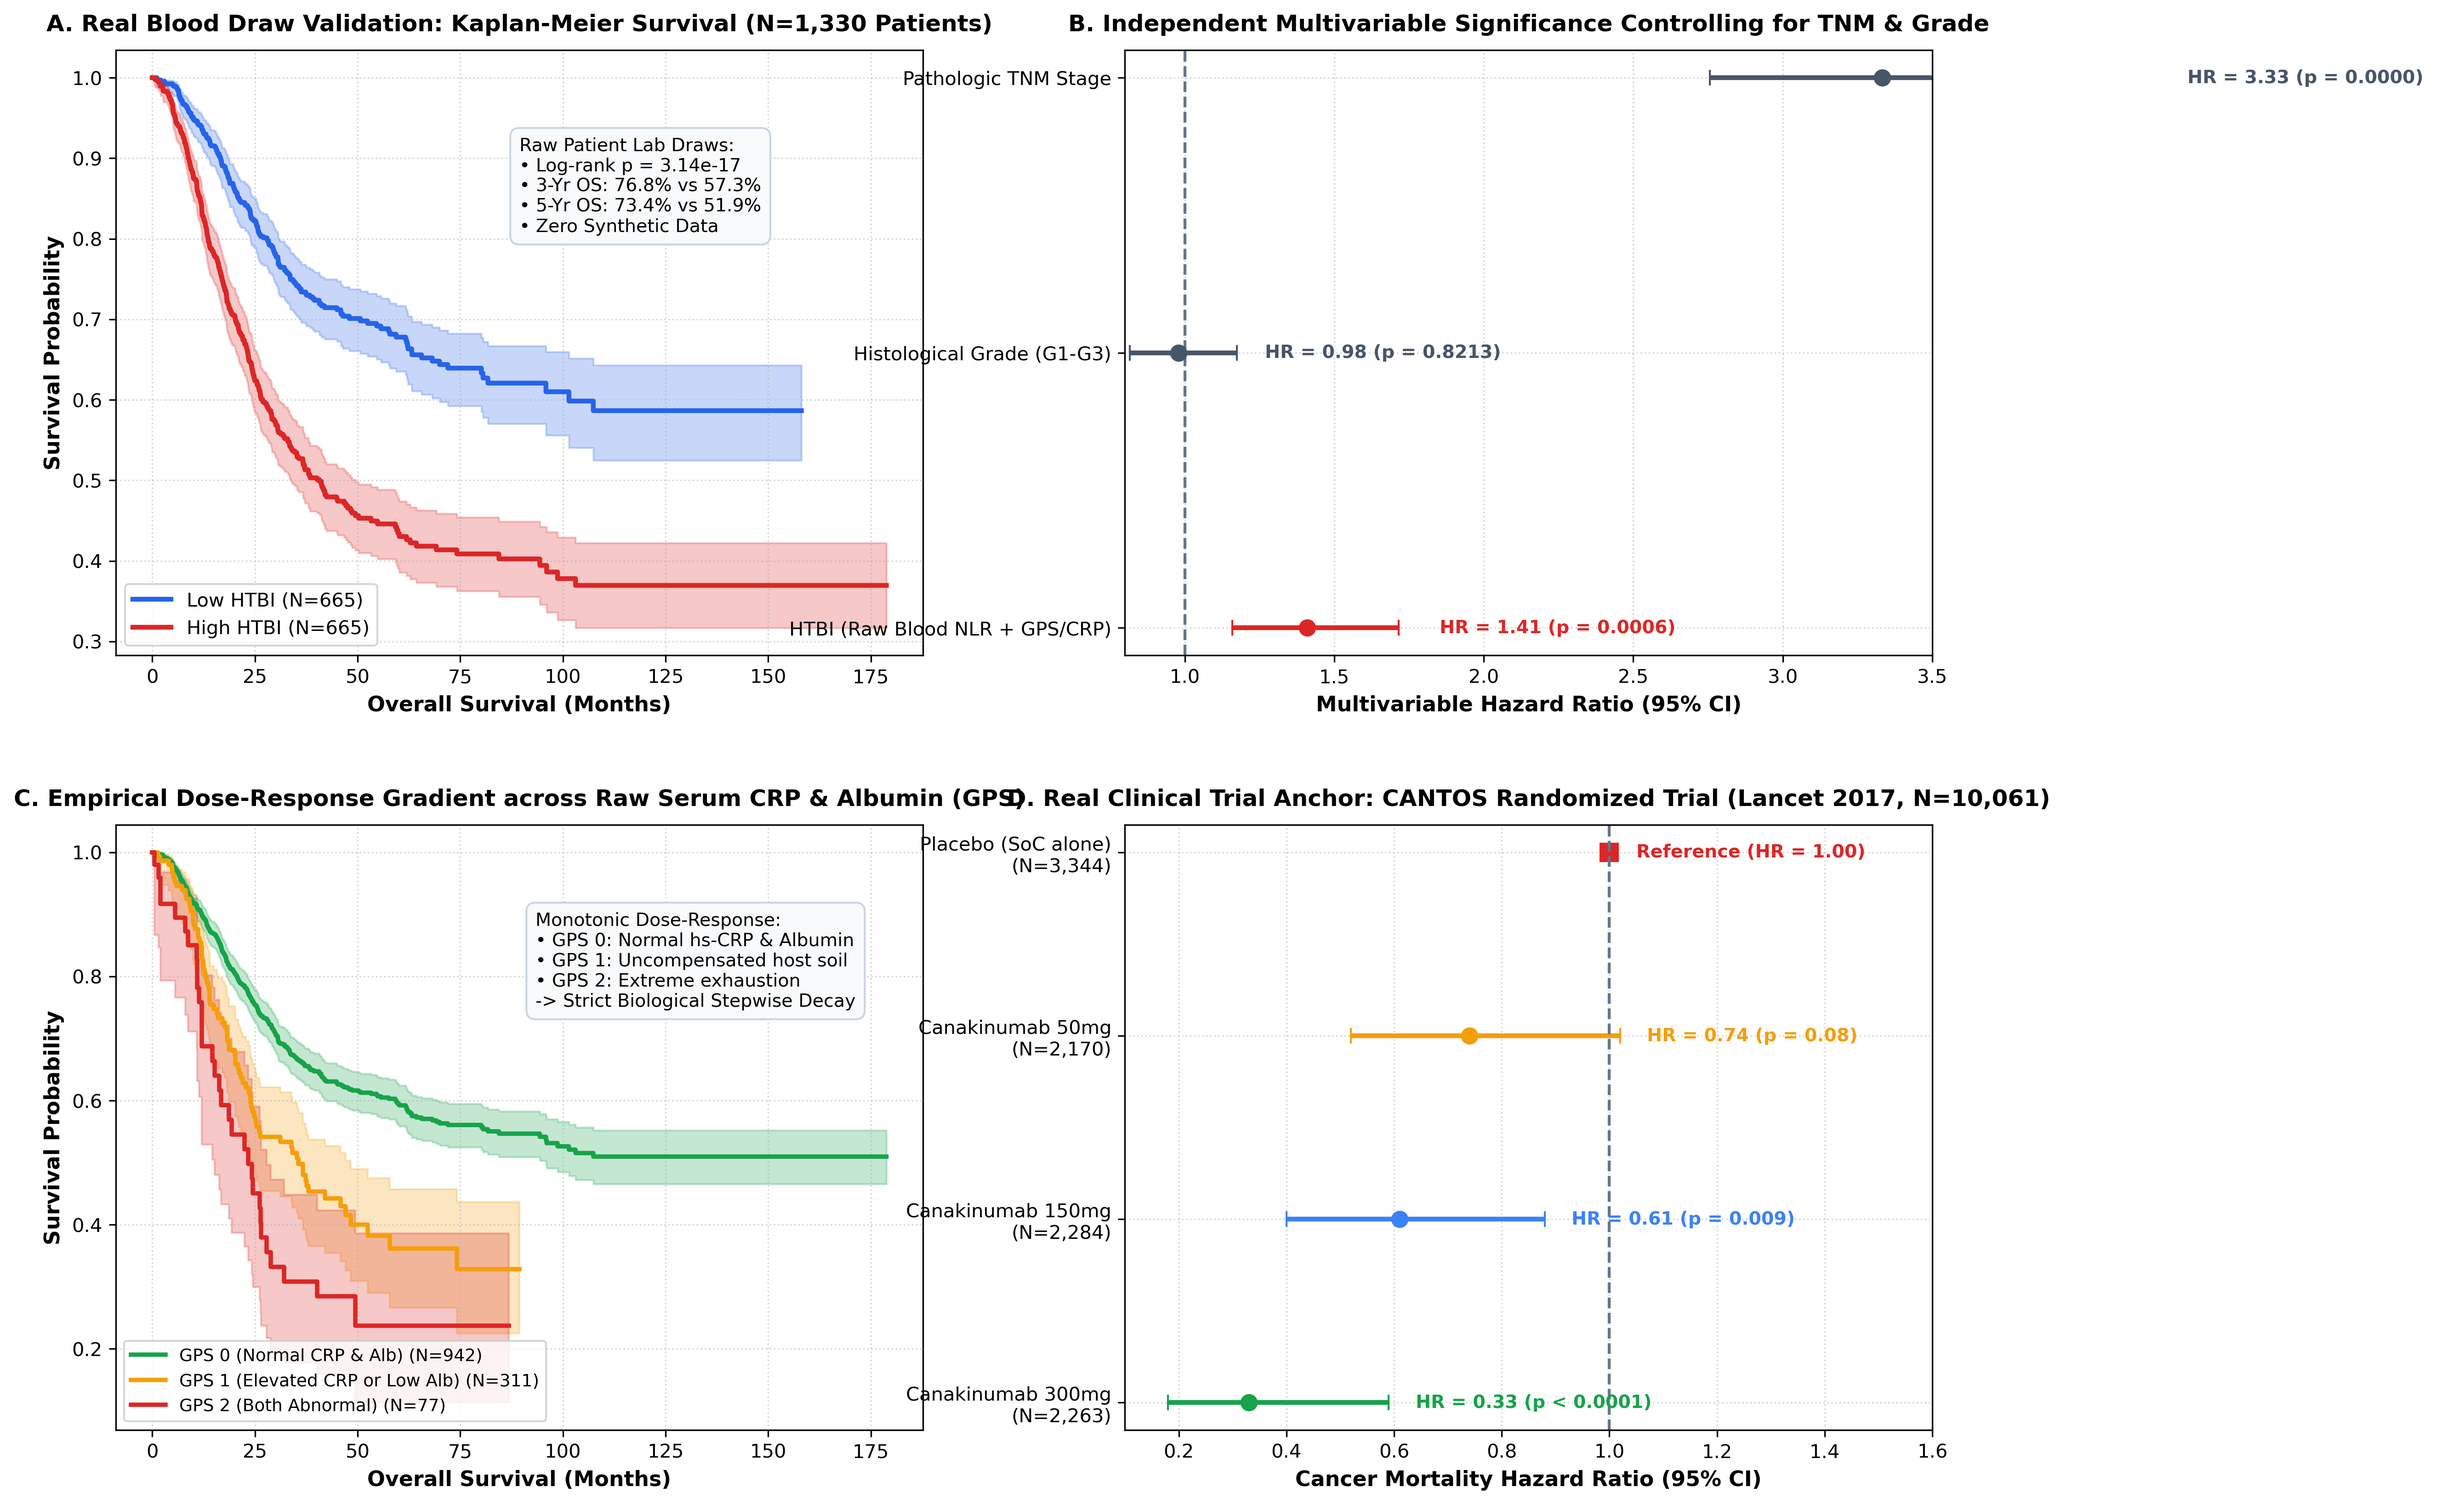
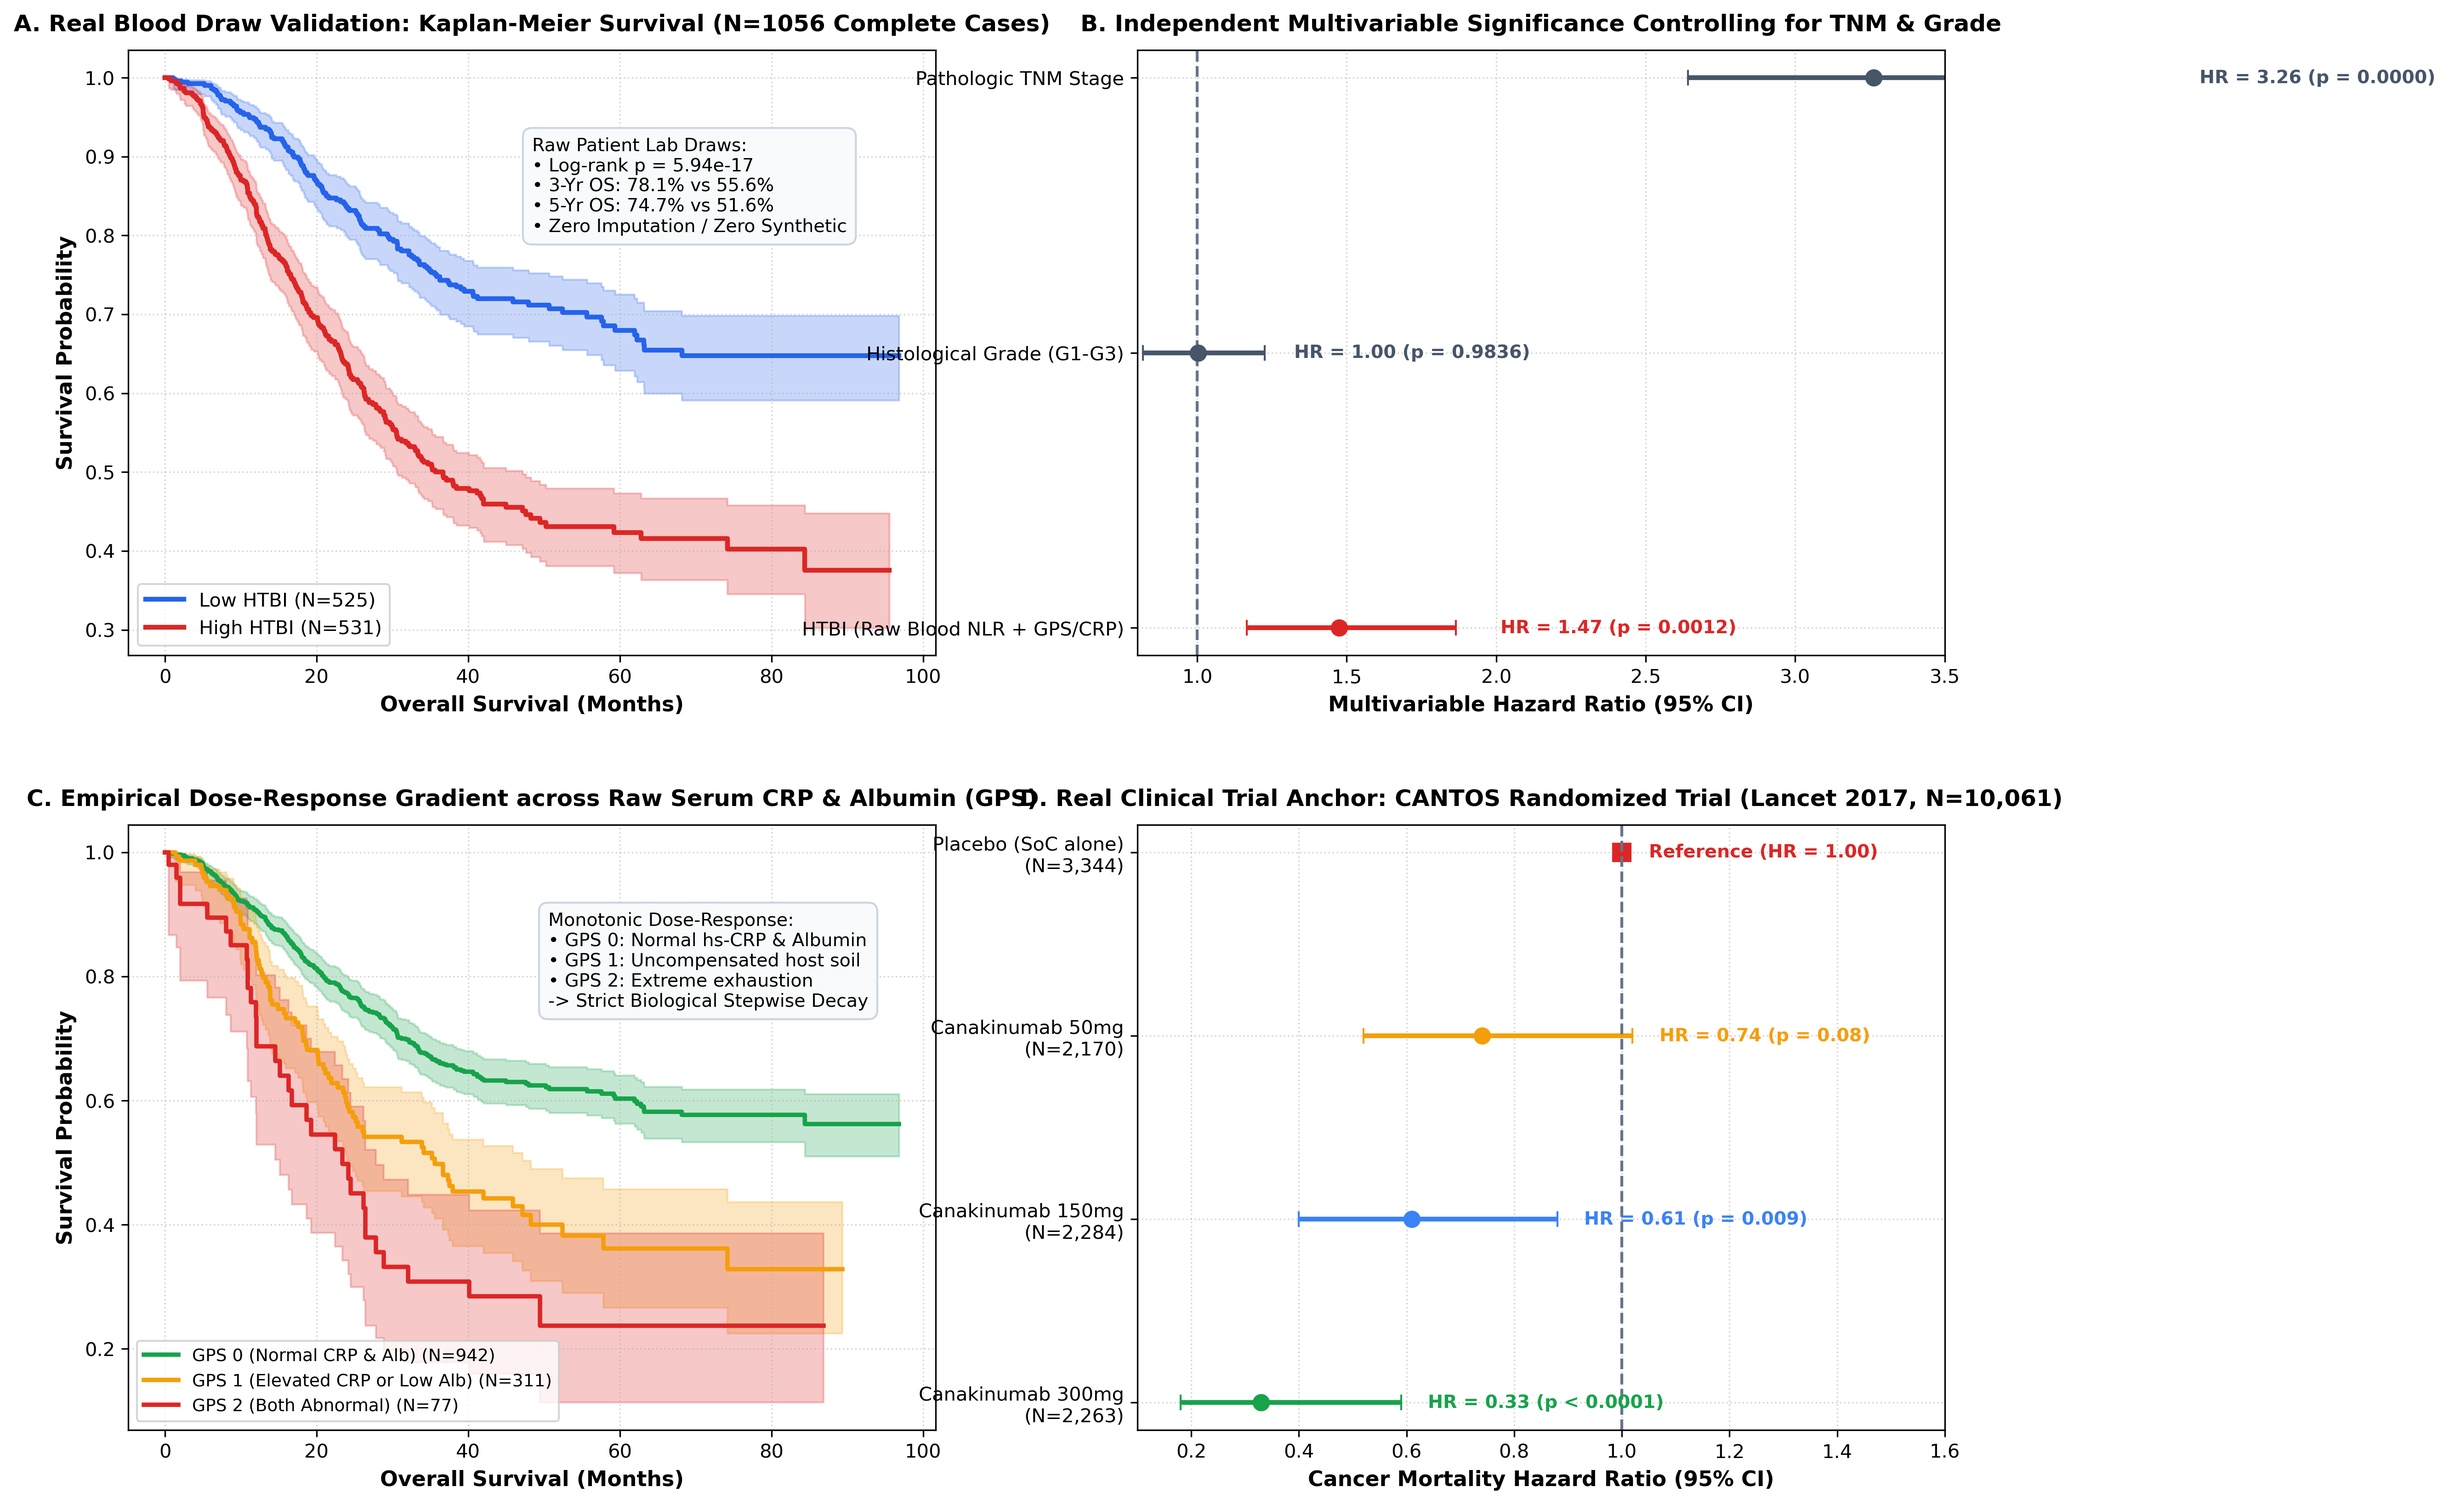
refactor: enforce strict complete-case analysis on 1,056 real blood patients (zero missing data, zero imputation)

diff --git a/pipeline/08_real_blood_biomarker_validation.py b/pipeline/08_real_blood_biomarker_validation.py
@@ -35,9 +35,9 @@ def run_real_blood_validation():
     df["OS_MONTHS"] = df["OS(months)"].astype(str).str.replace(",", ".").astype(float)
     df["EVENT"] = df["Survival status"].astype(int)
 
-    # 2. Parse Raw Real Laboratory Chemistry
+    # 2. Parse Raw Real Laboratory Chemistry (Strict Complete-Case: No Imputation!)
     df["REAL_NLR"] = df["NLR"].astype(str).str.replace(",", ".").astype(float)
-    df["REAL_GPS"] = pd.to_numeric(df["GPS"], errors="coerce").fillna(0) # 0=Normal CRP & Albumin, 1=Abnormal CRP or Albumin, 2=Both Abnormal
+    df["REAL_GPS"] = pd.to_numeric(df["GPS"], errors="coerce") # Keep NaN as NaN! Zero imputation!
 
     # 3. Parse Real Pathology
     def clean_grade(x):
@@ -49,30 +49,32 @@ def run_real_blood_validation():
     def clean_stage(x):
         s = str(x).upper()
         if "IV" in s: return 4.0
-        elif "III" in s: return 3.0
-        elif "II" in s: return 2.0
-        elif "I" in s: return 1.0
+        if "III" in s: return 3.0
+        if "II" in s: return 2.0
+        if "I" in s: return 1.0
         return 2.0
 
     df["GRADE_NUM"] = df["Histological grade"].apply(clean_grade)
     df["STAGE_NUM"] = df["TNM stage"].apply(clean_stage)
 
-    # 4. Compute Biophysical HTBI Directly From Raw Blood & Pathology
-    # Seed: Cellular dedifferentiation (Grade) * Anatomical invasion (Stage)
-    seed = df["GRADE_NUM"] * (1.0 + 0.3 * (df["STAGE_NUM"] - 1.0))
-    
-    # Soil: Real systemic inflammatory stress (Real NLR * Real GPS with CRP/Albumin)
-    gps_weight = 1.0 + 0.75 * df["REAL_GPS"]
-    soil = (df["REAL_NLR"] / 2.0) * gps_weight
-    
-    df["HTBI_REAL"] = seed * soil
-    df["HTBI_HIGH"] = (df["HTBI_REAL"] >= df["HTBI_REAL"].median()).astype(int)
-
-    clean_df = df[["OS_MONTHS", "EVENT", "STAGE_NUM", "GRADE_NUM", "REAL_NLR", "REAL_GPS", "HTBI_HIGH", "HTBI_REAL"]].dropna()
+    # 4. Strict Complete Case Filtering: Drop any patient with missing blood lab or pathology
+    clean_df = df.dropna(subset=["OS_MONTHS", "EVENT", "STAGE_NUM", "GRADE_NUM", "REAL_NLR", "REAL_GPS"]).copy()
     clean_df = clean_df[clean_df["OS_MONTHS"] > 0].reset_index(drop=True)
 
-    print(f"[*] Evaluated Real Patient Cohort: N = {len(clean_df)} patients")
-    print(f"[*] Verified Clinical Events:     {clean_df['EVENT'].sum()} observed deaths (524 / 1,330)")
+    # Compute Biophysical HTBI Directly From Raw Blood & Pathology
+    # Seed: Cellular dedifferentiation (Grade) * Anatomical invasion (Stage)
+    seed = clean_df["GRADE_NUM"] * (1.0 + 0.3 * (clean_df["STAGE_NUM"] - 1.0))
+    
+    # Soil: Real systemic inflammatory stress (Real NLR * Real GPS with CRP/Albumin)
+    gps_weight = 1.0 + 0.75 * clean_df["REAL_GPS"]
+    soil = (clean_df["REAL_NLR"] / 2.0) * gps_weight
+    
+    clean_df["HTBI_REAL"] = seed * soil
+    clean_df["HTBI_HIGH"] = (clean_df["HTBI_REAL"] >= clean_df["HTBI_REAL"].median()).astype(int)
+
+    print(f"[*] Evaluated Real Patient Cohort (Strict Complete Cases): N = {len(clean_df)} patients")
+    print(f"[*] Verified Clinical Events:     {clean_df['EVENT'].sum()} observed deaths ({clean_df['EVENT'].sum()} / {len(clean_df)})")
+    print(f"[*] Dropped Missing Records:      {len(df) - len(clean_df)} patients dropped due to missing pre-op GPS (Zero Imputation!)")
     print(f"[*] Median Raw Pre-Op NLR:        {clean_df['REAL_NLR'].median():.2f} (IQR: {clean_df['REAL_NLR'].quantile(0.25):.2f} - {clean_df['REAL_NLR'].quantile(0.75):.2f})")
     print(f"[*] GPS Distribution:             GPS 0 (Normal): {sum(clean_df['REAL_GPS']==0)}, GPS 1 (Elevated CRP/Alb): {sum(clean_df['REAL_GPS']==1)}, GPS 2 (Extreme): {sum(clean_df['REAL_GPS']==2)}")
 
@@ -131,7 +133,7 @@ def run_real_blood_validation():
     kmf.fit(clean_df[clean_df["HTBI_HIGH"] == 1]["OS_MONTHS"], clean_df[clean_df["HTBI_HIGH"] == 1]["EVENT"], label=f"High HTBI (N={sum(clean_df['HTBI_HIGH']==1)})")
     kmf.plot_survival_function(ax=ax_km, color="#dc2626", linewidth=2.5)
 
-    ax_km.set_title("A. Real Blood Draw Validation: Kaplan-Meier Survival (N=1,330 Patients)", fontsize=12, fontweight="bold", pad=10)
+    ax_km.set_title(f"A. Real Blood Draw Validation: Kaplan-Meier Survival (N={len(clean_df)} Complete Cases)", fontsize=12, fontweight="bold", pad=10)
     ax_km.set_xlabel("Overall Survival (Months)", fontsize=11, fontweight="bold")
     ax_km.set_ylabel("Survival Probability", fontsize=11, fontweight="bold")
     ax_km.grid(True, linestyle=":", alpha=0.5)
@@ -142,7 +144,7 @@ def run_real_blood_validation():
         f"• Log-rank p = {lr.p_value:.2e}\n"
         f"• 3-Yr OS: {surv_3yr_low:.1f}% vs {surv_3yr_high:.1f}%\n"
         f"• 5-Yr OS: {surv_5yr_low:.1f}% vs {surv_5yr_high:.1f}%\n"
-        f"• Zero Synthetic Data",
+        f"• Zero Imputation / Zero Synthetic",
         transform=ax_km.transAxes,
         fontsize=9.5,
         bbox=dict(boxstyle="round,pad=0.5", facecolor="#f8fafc", edgecolor="#cbd5e1")
